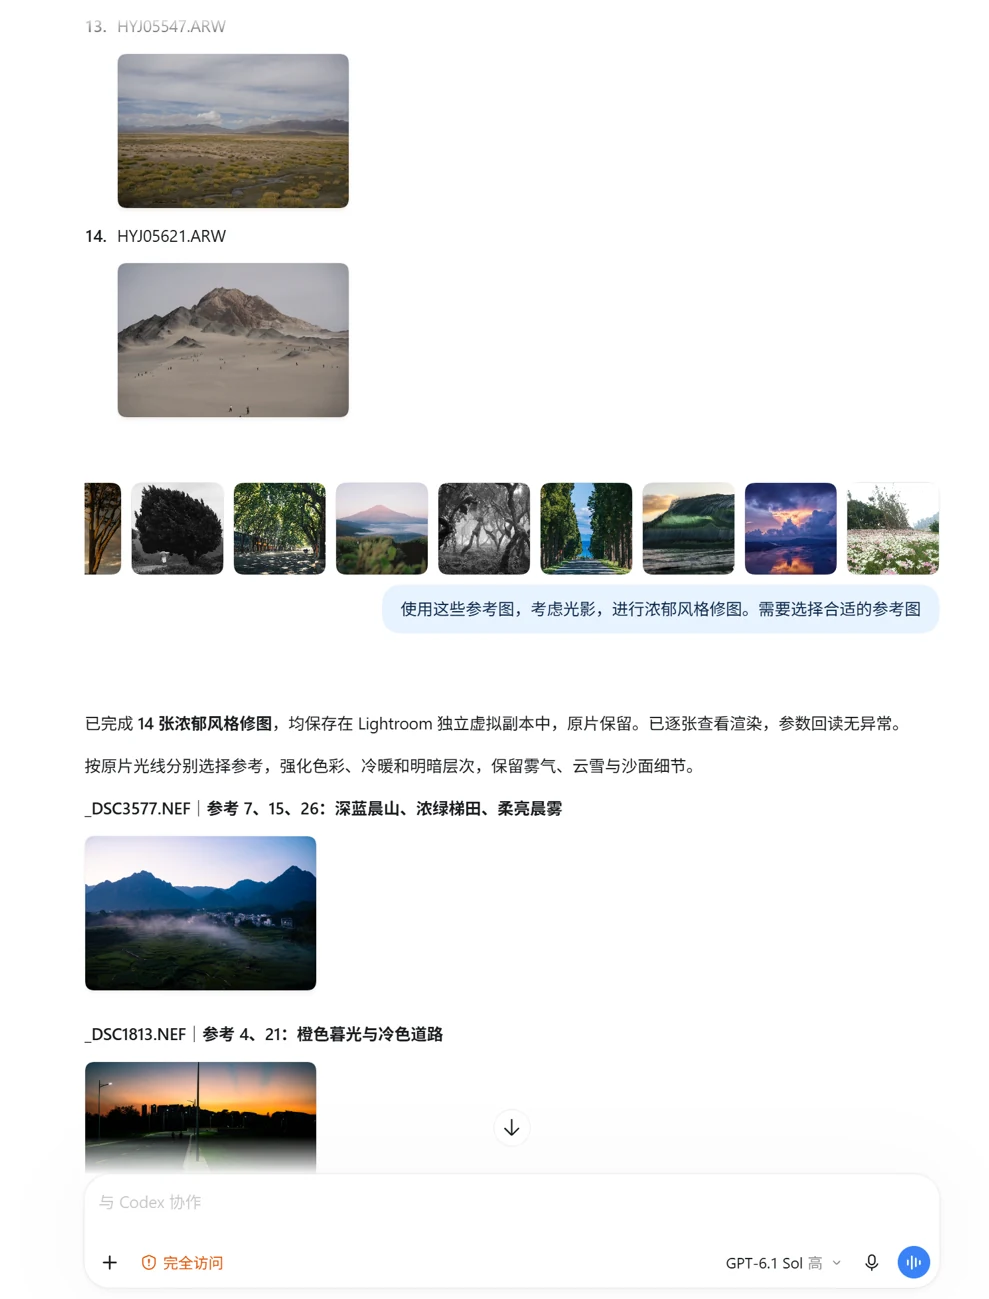
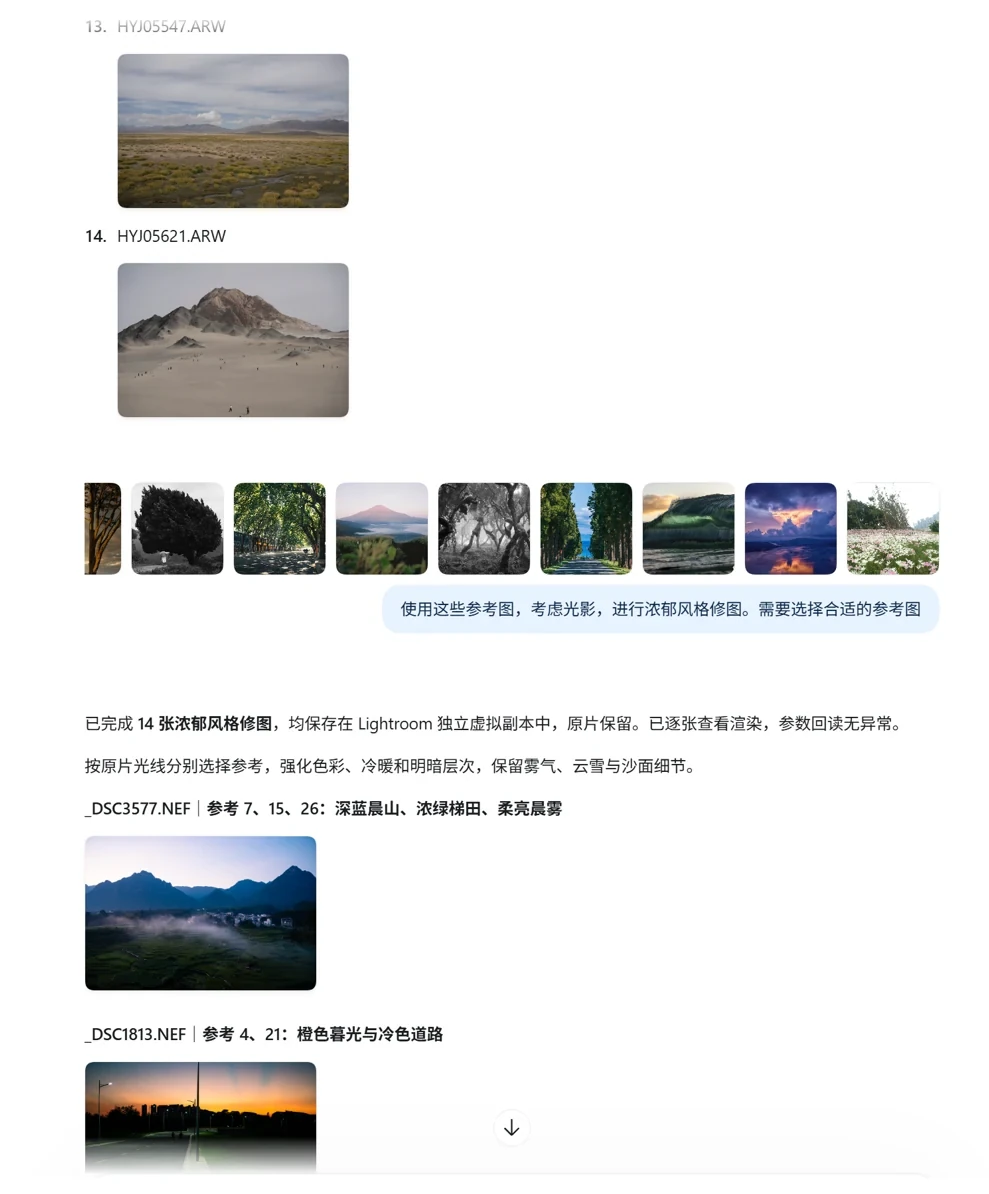
feat(experience): crop chat chrome, widen the conversation panel, add the mask capture
- Recrop the three conversation captures to the chat content only: drop the
  session rail, the window title bar and the composer. The "用时" line is cut
  out of the mask capture instead of painted over.
- Give the conversation panel more room in the two-column boards (0.78fr /
  1.22fr), trim its inline padding, and stack group 03 vertically with both
  panels on the light palette so the captures read at full width.
- Group 03 now shows two real captures: mask-based exposure repair and
  reference-image colour matching. Copy rewritten accordingly.
- Retitle group 01 to "描述目标，Agent 帮你后台处理", and replace the footer
  step paths on the agent panels with the prompts the user actually said.

diff --git a/src/styles.css b/src/styles.css
@@ -2678,6 +2678,14 @@ kbd {
 .workflow-next li { padding: 6px 11px; border: 1px solid #cfd8cc; border-radius: 999px; background: #f0f3ed; color: #45614f; font-size: 11px; line-height: 1.5; }
 .workflow-path { margin: auto 0 0; color: #b4c0ca; font-size: 12px; line-height: 1.7; }
 .workflow-after .workflow-path { color: #4e6757; }
+/* 03 group: both panels use the light palette, no dark/light contrast. */
+.workflow-figure-computer .workflow-before { background: var(--study-light); color: var(--study-light-ink); }
+.workflow-figure-computer .workflow-before > header > span { color: #416250; }
+.workflow-figure-computer .workflow-before .workflow-shot { border-color: #c3cdc5; background: #f9faf7; }
+.workflow-figure-computer .workflow-before .workflow-shot figcaption { border-color: #d5ddd4; background: #eef1eb; color: #4c6255; }
+.workflow-figure-computer .workflow-before .workflow-shot .window-dots i { background: #a9b8ae; }
+.workflow-figure-computer .workflow-before .workflow-path { color: #4e6757; }
+.workflow-figure-computer .workflow-before + .workflow-after { border-top: 1px solid #d5ddd4; }
 .workflow-summary { padding: 22px 2px 0; display: flex; flex-wrap: wrap; gap: 18px 32px; align-items: center; justify-content: space-between; }
 .workflow-summary > p { max-width: 560px; margin: 0; color: #d1d8de; font-size: 13px; line-height: 1.8; }
 .workflow-summary ul { list-style: none; display: flex; flex-wrap: wrap; gap: 14px; margin: 0; padding: 0; }
@@ -2685,7 +2693,9 @@ kbd {
 .workflow-summary li > span { margin-right: 6px; color: var(--study-accent); }
 .workflow-source { display: flex; justify-content: space-between; flex-wrap: wrap; gap: 12px; padding-top: 18px; border-top: 1px solid var(--line); color: var(--muted); font-size: 10px; line-height: 1.7; }
 @media (min-width: 768px) {
-  .workflow-board { grid-template-columns: repeat(2, minmax(0, 1fr)); }
+  .workflow-board { grid-template-columns: minmax(0, 0.78fr) minmax(0, 1.22fr); }
+  .workflow-figure-computer .workflow-board { width: 61%; margin-inline: auto; }
+  .workflow-after { padding-inline: clamp(16px, 2vw, 26px); }
   .workflow-side { gap: 24px; }
 }
 @media (max-width: 639px) {
@@ -2700,7 +2710,8 @@ kbd {
 
 /* Solo figure (03): one centered card with the real capture, and the manual /
    computer-use way compressed into a contrast strip below it. */
-.workflow-board.workflow-board-solo { grid-template-columns: minmax(0, 1fr); width: min(560px, 100%); margin: 0 auto; }
+.workflow-figure-computer .workflow-board { grid-template-columns: minmax(0, 1fr); }
+.workflow-board.workflow-board-solo { grid-template-columns: minmax(0, 1fr); width: min(620px, 100%); margin: 0 auto; }
 .workflow-contrast { display: flex; align-items: center; gap: 14px; padding: 16px clamp(18px, 3vw, 36px) 18px; background: var(--study-bg); }
 .workflow-contrast-mark { flex-shrink: 0; width: 22px; height: 22px; display: inline-flex; align-items: center; justify-content: center; border: 1px solid #46525d; border-radius: 50%; color: #8d99a3; font-size: 12px; line-height: 1; }
 .workflow-contrast-body { display: flex; flex-wrap: wrap; align-items: baseline; gap: 4px 12px; }

diff --git a/src/WorkflowComparisons.tsx b/src/WorkflowComparisons.tsx
@@ -11,7 +11,7 @@ type ShotCopy = { alt: string; caption: string };
 type Content = {
   note: string;
   sceneEntries: SceneEntry[];
-  shots: { sliders: ShotCopy; refine: ShotCopy; loupe: ShotCopy; rating: ShotCopy; color: ShotCopy };
+  shots: { sliders: ShotCopy; refine: ShotCopy; loupe: ShotCopy; rating: ShotCopy; color: ShotCopy; mask: ShotCopy };
   first: Comparison & { followups: string[] };
   batch: Comparison;
   computer: Comparison;
@@ -35,6 +35,7 @@ const shotRefine = `${import.meta.env.BASE_URL}experience/conversation-refine.we
 const shotLoupe = `${import.meta.env.BASE_URL}experience/lr-loupe.webp`;
 const shotRating = `${import.meta.env.BASE_URL}experience/conversation-rating.webp`;
 const shotColor = `${import.meta.env.BASE_URL}experience/conversation-color-match.webp`;
+const shotMask = `${import.meta.env.BASE_URL}experience/conversation-mask.webp`;
 
 function Shot({ src, alt, caption, width, height }: { src: string; alt: string; caption: string; width: number; height: number }) {
   return <figure className="workflow-shot">
@@ -86,16 +87,17 @@ export function WorkflowComparisons() {
     <ComparisonFigure item={copy.first}>{[
       <Shot key="sliders" src={shotSliders} alt={copy.shots.sliders.alt} caption={copy.shots.sliders.caption} width={1800} height={1149} />,
       <div className="workflow-shot-stack" key="refine">
-        <Shot src={shotRefine} alt={copy.shots.refine.alt} caption={copy.shots.refine.caption} width={1500} height={1596} />
+        <Shot src={shotRefine} alt={copy.shots.refine.alt} caption={copy.shots.refine.caption} width={1400} height={1405} />
         <div className="workflow-next"><span>接着说</span><ul>{copy.first.followups.map((followup) => <li key={followup}>{followup}</li>)}</ul></div>
       </div>,
     ]}</ComparisonFigure>
     <ComparisonFigure item={copy.batch} variant="batch">{[
       <Shot key="loupe" src={shotLoupe} alt={copy.shots.loupe.alt} caption={copy.shots.loupe.caption} width={1500} height={1285} />,
-      <Shot key="rating" src={shotRating} alt={copy.shots.rating.alt} caption={copy.shots.rating.caption} width={1500} height={1175} />,
+      <Shot key="rating" src={shotRating} alt={copy.shots.rating.alt} caption={copy.shots.rating.caption} width={1500} height={1020} />,
     ]}</ComparisonFigure>
-    <ComparisonFigure item={copy.computer} variant="computer" solo>{[
-      <Shot key="color" src={shotColor} alt={copy.shots.color.alt} caption={copy.shots.color.caption} width={989} height={1299} />,
+    <ComparisonFigure item={copy.computer} variant="computer">{[
+      <Shot key="mask" src={shotMask} alt={copy.shots.mask.alt} caption={copy.shots.mask.caption} width={1346} height={1307} />,
+      <Shot key="color" src={shotColor} alt={copy.shots.color.alt} caption={copy.shots.color.caption} width={989} height={1194} />,
     ]}</ComparisonFigure>
     <div className="workflow-source"><span>{copy.note}</span></div>
   </section>;

diff --git a/src/WorkflowComparisons.test.tsx b/src/WorkflowComparisons.test.tsx
@@ -58,22 +58,23 @@ describe("workflow examples", () => {
     expect(batch).not.toContain("batch-thumb");
   });
 
-  it("shows reference matching with the real color-match conversation capture", () => {
+  it("shows mask repair and reference matching with real captures", () => {
     const html = renderToStaticMarkup(<WorkflowComparisons />);
     const computer = html.match(/workflow-figure-computer[\s\S]*?workflow-source/)?.[0];
 
     expect(computer).toBeDefined();
-    expect(computer).toContain("少截图，少来回找按钮。");
-    expect(computer).toContain("模仿参考图调色时");
+    expect(computer).toContain("后台做完，你只看结果。");
+    expect(computer).toContain("人物蒙版");
+    expect(computer).toContain("experience/conversation-mask.webp");
+    expect(computer).toContain("Agent 对话 · 曝光不对，蒙版自己建");
+    expect(computer).toContain("整体曝光 → 人物蒙版 → 回读确认");
     expect(computer).toContain("参考图仿色");
     expect(computer).toContain("结果可回读");
     expect(computer).toContain("experience/conversation-color-match.webp");
     expect(computer).toContain("Agent 对话 · 参考图仿色，逐张回读");
-    expect(computer).toContain("workflow-board-solo");
-    expect(computer).toContain("workflow-contrast");
-    expect(computer).toContain("Agent 直接操作界面 · 反复看屏幕");
-    expect(computer).toContain("截图 → 定位 → 点击 → 再截图");
     expect(computer).toContain("参考图 → 逐张匹配 → 渲染回读");
+    expect(computer).not.toContain("workflow-board-solo");
+    expect(computer).not.toContain("workflow-contrast");
     expect(computer).not.toContain("实录截图整理中");
     expect(computer).not.toContain("match-round-image");
     expect(computer).not.toContain("screen-loop");

diff --git a/public/experience/SOURCES.md b/public/experience/SOURCES.md
@@ -2,10 +2,24 @@
 
 这些截图来自作者本机的 ToneRelay 实际工作流（Lightroom Classic + Agent 对话），照片来自作者的 Lightroom 目录，非库存图片。截图从 4K 录屏中裁剪出有效区域，缩放后以 WebP 用于网页展示；页面上的说明文字与截图内容一致。
 
-| 文件 | 内容 | 来源 |
+| 文件 | 尺寸 | 内容 | 来源 |
+| --- | --- | --- | --- |
+| `lr-develop-sliders.webp` | 1800×1149 | Lightroom Classic 修改照片模块：右侧参数面板布满滑块，大光标停在曝光度滑块上 | 作者实测截图 |
+| `conversation-refine.webp` | 1400×1405 | 对话精修：第一版结果 → 接着说「感觉暗部太黑了」→ 第二版 | 作者实测截图 |
+| `lr-loupe.webp` | 1500×1285 | Lightroom Classic 放大视图与胶片网格 | 作者实测截图 |
+| `conversation-rating.webp` | 1500×1020 | 批量评分：星级分布与写回记录 | 作者实测截图 |
+| `conversation-color-match.webp` | 989×1194 | 参考图仿色：9 张参考图逐张匹配，14 张浓郁风格结果回读 | 作者实测截图 |
+| `conversation-mask.webp` | 1346×1307 | 人物蒙版：一句「曝光不对，蒙版恢复人物曝光和整体曝光」→ 整体曝光 +0.35 EV / 高光 −55 / 阴影 +30 + 人物蒙版提亮 → 原图与曝光修正版并排 → 参数回读确认 | 作者实测截图 |
+
+## 2026-10-18 重裁：去掉对话界面外壳
+
+三张 `conversation-*.webp` 只保留对话内容，裁掉了这些界面元素，避免在页面上和卡片本身的标题重复：
+
+| 文件 | 裁掉的区域 | 保留 |
 | --- | --- | --- |
-| `lr-develop-sliders.webp` | Lightroom Classic 修改照片模块：右侧参数面板布满滑块，大光标停在曝光度滑块上 | 作者实测截图 |
-| `conversation-refine.webp` | 对话精修：第一版结果 → 接着说「感觉暗部太黑了」→ 第二版 | 作者实测截图 |
-| `lr-loupe.webp` | Lightroom Classic 放大视图与胶片网格 | 作者实测截图 |
-| `conversation-rating.webp` | 批量评分：星级分布与写回记录 | 作者实测截图 |
-| `conversation-color-match.webp` | 参考图仿色：9 张参考图逐张匹配，14 张浓郁风格结果回读 | 作者实测截图 |
+| `conversation-refine.webp` | 左侧会话列表竖栏（x 0–100）、顶部窗口标题条（y 0–56）、底部输入框（y 1445 之后） | 参考图行 → 提问 → 用时 → v1 → 参数 → 反馈 → v2 → 参数 |
+| `conversation-rating.webp` | 底部输入框（y 1004 之后） | 上一轮追问 → 打分请求 → 两次用时 → 星级分布表 → 5★ 名单 → 冲突说明 → 操作 ID |
+| `conversation-color-match.webp` | 底部输入框（y 1178 之后） | 两张结果 → 9 张参考图 → 提问 → 完成说明 → 逐张匹配结果 |
+| `conversation-mask.webp` | 顶部「今天 22:00」、中间「用时 37 分钟 54 秒」整段、底部输入框 | 文件名 → 原片缩略图 → 提问 → 完成说明 → 原图/曝光修正版对比 → 参数 |
+
+每张底部补 16px 白，避免最后一行贴边。页面侧同步调整：双栏对比改成 `0.78fr / 1.22fr`（左窄右宽）；第 03 组由单人卡改回**竖向堆叠**（蒙版在上、仿色在下），图片接近整栏宽度。「用时」那一行是直接跳过不裁（切掉 y 640–785 的一段），不是涂白；源图 `footage/MDimage/image-20261018043804315.png`。
